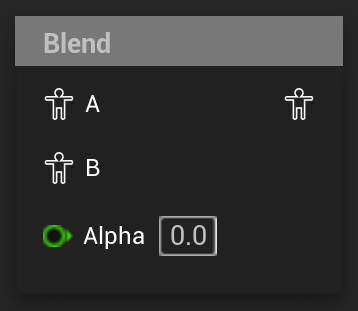
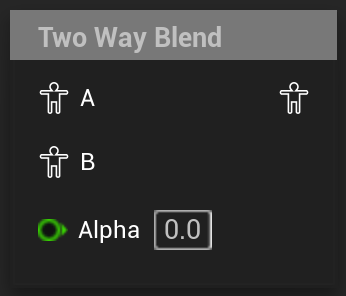
Update TwoWayBlend node image. doBuild

diff --git a/animnode-reference/twowayblend/index.html b/animnode-reference/twowayblend/index.html
@@ -185,7 +185,9 @@ if (!doNotTrack) {
 	
 	
 	
-	<img src="../../animnode-reference/defaultnodes/TwoWayBlend.png" style="height:250px;border-radius:15px;">
+		
+	
+	<img src="../../animnode-reference/defaultnodes/TwoWayBlend.png" style="height:175px;border-radius:15px;">
 
 
 			<hr />
